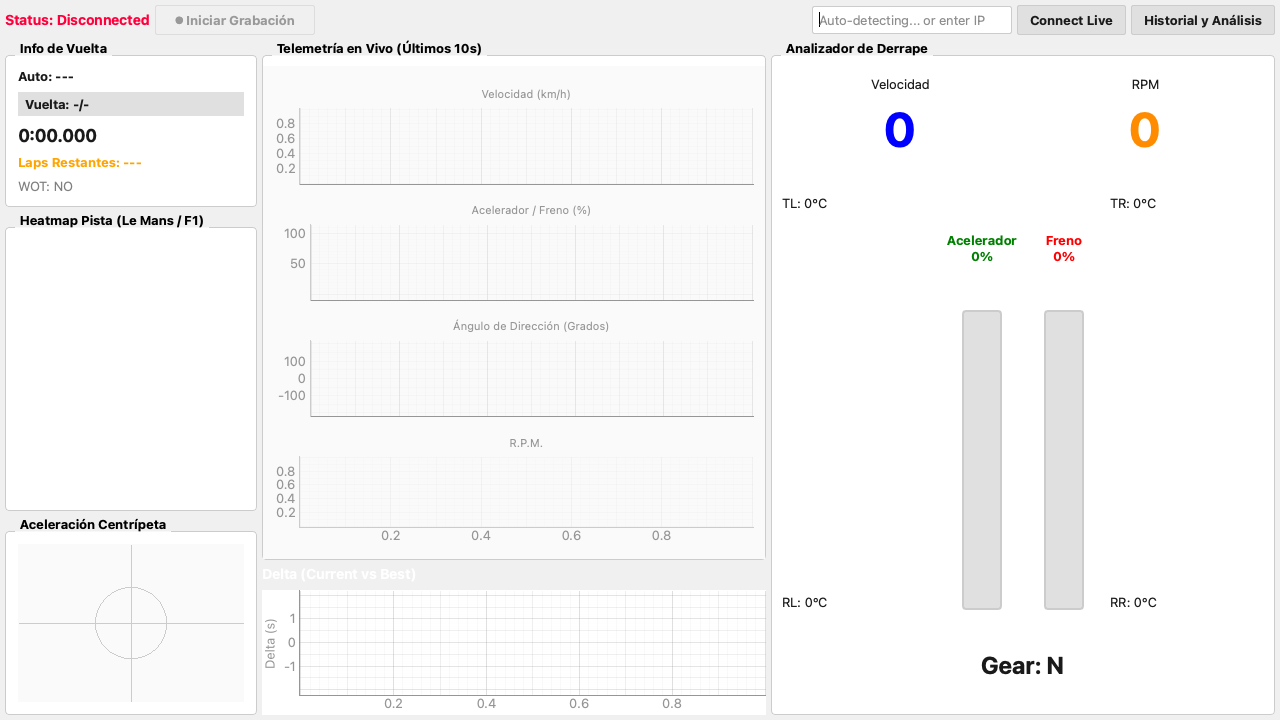
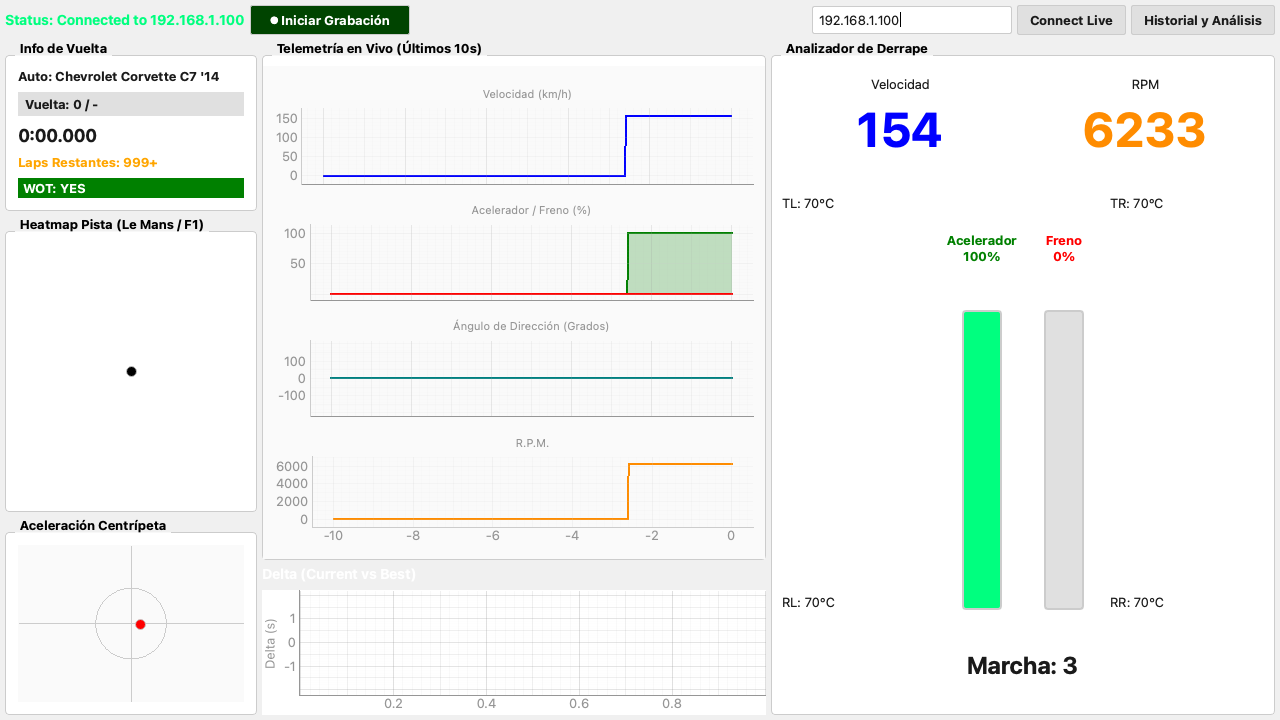
Docs: Regenerate screenshots with populated telemetry data

diff --git a/.changelog/CHANGELOG_TECNICO.md b/.changelog/CHANGELOG_TECNICO.md
@@ -5,6 +5,28 @@
 
 ---
 
+## Docs: Regenerate screenshots with populated telemetry data
+
+| Campo | Detalle |
+|-------|---------|
+| **Fecha** | 2026-07-13 08:54:52 |
+| **Autor** | David Mendez ([email redacted]) |
+| **Branch** | master |
+| **Tipo** | Docs |
+
+### Archivos Modificados
+
+| Archivo | Estado | Descripción del Cambio |
+|---------|--------|----------------------|
+| `docs/main_window.png` | Modificado | Captura actualizada del dashboard principal. |
+| `docs/analysis_mode.png` | Modificado | Captura actualizada con gráficas, mapas y tablas completamente pobladas con datos de sesión reales. |
+
+### Detalle Técnico
+
+Se re-escribió y ejecutó el script de captura *headless* (`capture.py`) agregándole llamadas a la lógica de inicialización profunda: `_load_data(1)` y `setCheckState(Checked)` para simular interacciones de usuario (selección de múltiples vueltas) dentro de la interfaz de Análisis Avanzado, permitiendo así que `pyqtgraph` renderizara exitosamente los *Speed Traces*, el *Heatmap* de trazado y las tablas de sesiones generadas bajo el nuevo entorno Diurno.
+
+---
+
 ## Docs: Actualización de screenshots y especificaciones de IA (Light Mode)
 
 | Campo | Detalle |

diff --git a/.changelog/CHANGELOG_PROYECTO.md b/.changelog/CHANGELOG_PROYECTO.md
@@ -5,6 +5,23 @@
 
 ---
 
+## 📝 Fotografías de sistema funcionando con datos reales
+
+| Campo | Detalle |
+|-------|---------|
+| **Fecha** | 2026-07-13 08:54:52 |
+| **Responsable** | Antigravity AI |
+
+### ¿Qué se realizó?
+
+Se corrigieron las capturas de pantalla del proyecto. Las imágenes anteriores mostraban el programa "vacío", pero ahora se ha simulado a un usuario cargando su historial de carreras y seleccionando sus mejores vueltas para comparar, de forma que las imágenes en el manual muestran las gráficas, el mapa y los tableros de pits completamente llenos de datos y cobrando vida.
+
+### ¿Qué significa para el proyecto?
+
+Demuestra visualmente al cliente o usuario nuevo que la aplicación es totalmente funcional, en vez de parecer un bosquejo sin usar.
+
+---
+
 ## 📝 Actualización del manual y capturas oficiales
 
 | Campo | Detalle |